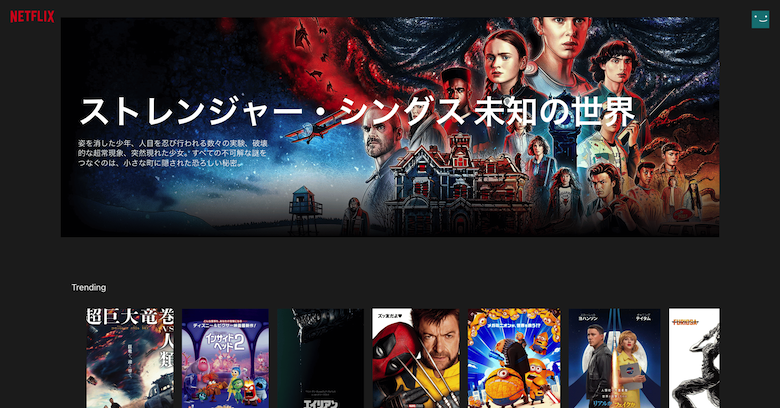
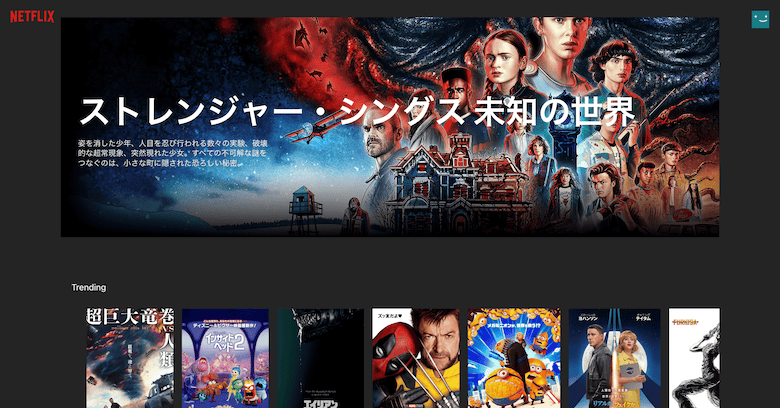
[update]cssインライン化

diff --git a/index.html b/index.html
@@ -29,6 +29,7 @@
 
   <link rel="stylesheet" href="https://cdnjs.cloudflare.com/ajax/libs/animate.css/3.5.2/animate.min.css">
   <link rel="stylesheet" href="https://cdn.jsdelivr.net/npm/swiper@11/swiper-bundle.min.css">
+  <style>@charset "UTF-8";html{-webkit-box-sizing:border-box;box-sizing:border-box;-webkit-text-size-adjust:100%;word-break:normal;-moz-tab-size:4;-o-tab-size:4;tab-size:4}*,::before,::after{background-repeat:no-repeat;-webkit-box-sizing:inherit;box-sizing:inherit}::before,::after{text-decoration:inherit;vertical-align:inherit}*{padding:0;margin:0}main{display:block}a{background-color:transparent}::-webkit-file-upload-button{-webkit-appearance:button;color:inherit;font:inherit}img{border-style:none}@font-face{font-display:swap;font-weight:400;font-style:normal;font-family:"Noto Sans JP";src:url("../fonts/NotoSansJP-Regular.woff") format("woff")}@font-face{font-display:swap;font-weight:700;font-style:normal;font-family:"Noto Sans JP";src:url("../fonts/NotoSansJP-Bold.woff") format("woff")}*,*::after,*::before{-webkit-box-sizing:border-box;box-sizing:border-box}html{font-size:62.5%;scroll-behavior:smooth;scroll-padding-top:80px;color:red}@media screen and (max-width:767px){html{scroll-padding-top:0px}}body{color:#333;font-size:1.6rem;width:100%;overflow-x:hidden;font-family:"Noto Sans JP",sans-serif;padding:0;background-color:#f3efe7;position:relative}img{max-width:100%;height:auto;border:none;display:block;width:100%}a{color:#333;text-decoration:none}li{list-style:none}.pc{display:block}@media screen and (max-width:767px){.pc{display:none}}.sp{display:none}@media screen and (max-width:767px){.sp{display:block}}p{line-height:1.8em;font-size:2rem}@media screen and (max-width:767px){p{font-size:1.6rem}}.l-header{width:100%;height:120px;position:fixed;z-index:1}@media screen and (max-width:767px){.l-header{height:50px}}.l-header__contents{display:-webkit-box;display:-ms-flexbox;display:flex;-webkit-box-pack:justify;-ms-flex-pack:justify;justify-content:space-between;-webkit-box-align:center;-ms-flex-align:center;align-items:center;height:100%}@media screen and (max-width:767px){.l-header__contents{display:none}}.l-header__logo{width:80px;height:80px}.l-header img{-webkit-filter:invert(100%);filter:invert(100%)}.l-header a{color:white}@media screen and (max-width:767px){.l-header__nav{display:none}}.l-nav__wrap{display:-webkit-box;display:-ms-flexbox;display:flex;-webkit-box-pack:justify;-ms-flex-pack:justify;justify-content:space-between}.l-nav__item{margin-right:25px}.l-nav__item a{font-size:2rem}.sp_header{display:none}.sp_back{display:none;width:100%;height:100%;background-color:rgb(87,87,87);z-index:100;position:absolute;opacity:0.4}.sp_btn{display:none;z-index:200}@media screen and (max-width:767px){.sp_header{display:block;position:fixed;right:-250px;z-index:100;width:250px;height:100vh;top:0;border-radius:0 0 0 100px}.sp_menu{height:100%}.sp_btn{display:block;position:fixed;top:15px;right:15px;width:30px;z-index:200}.nav_items{display:block;font-size:30px;width:100%;padding:0;position:absolute;top:15%}.nav_items a{color:white;width:100%;display:block;padding-left:30px}}@media screen and (max-width:767px) and (max-width:767px){.nav_items a{border-bottom:10px dotted rgba(255,255,255,0.2196078431);margin-left:40px;padding-bottom:5px;padding-left:0px}}@media screen and (max-width:767px){.nav_item{margin-bottom:15px;width:100%;padding:0}}.hide_btn{list-style:none;font-size:80px;color:white}.custom-cursor{position:fixed;top:0;left:0;width:30px;height:30px;border-radius:50%;background-color:#ff3b00;-webkit-transform:translate(-50%,-50%);transform:translate(-50%,-50%);z-index:9999}@media screen and (max-width:767px){.custom-cursor{display:none}}.c-inner{max-width:1080px;margin:0 auto;padding:0 150px}@media screen and (max-width:900px){.c-inner{padding:0 100px}}@media screen and (max-width:767px){.c-inner{padding:10px 20px 30px}}.c-inner.l-head-inner{height:100%}@media screen and (max-width:767px){.c-inner.l-head-inner{padding:0}}.c-inner.p-mv{position:absolute;top:50%;left:50%;-webkit-transform:translate(-50%,-50%);transform:translate(-50%,-50%);width:100%;max-width:1080px;padding:10px 30px 30px}.c-section{padding-top:100px;padding-bottom:50px;text-align:center;overflow:hidden}@media screen and (max-width:767px){.c-section{padding-top:70px;padding-bottom:0}}.c-section.p-mv{padding-top:0}.logo_fadein{background:#f3efe7;position:fixed;top:0;left:0;height:100%;width:100%;z-index:999}@media screen and (max-width:767px){.logo_fadein{height:100vh}}@media screen and (max-width:767px){.logo_fadein img{width:100px;height:100px;margin:0 auto;display:block}}.logo_fadein p{position:fixed;left:50%;top:50%;-webkit-transform:translate(-50%,-50%);transform:translate(-50%,-50%);display:none;z-index:9999;width:280px}@media screen and (max-width:767px){.logo_fadein p{margin:0 auto;text-align:center}}.p-mv{position:relative}.p-mv__img{height:100vh}.p-mv__img img{width:100%;height:100%;-o-object-fit:cover;object-fit:cover}.p-mv__contents{text-align:left;padding-left:100px;color:white}@media screen and (max-width:767px){.p-mv__contents{padding-left:0}}.p-mv__title{font-size:8rem;text-shadow:1px 3px 5px #000000}@media screen and (max-width:767px){.p-mv__title{font-size:5rem}}.p-mv__text-title{font-size:3rem;text-shadow:1px 3px 5px #000000}@media screen and (max-width:767px){.p-mv__text-title{font-size:2rem}}.p-mv__text-welcome{font-size:2rem;text-shadow:1px 3px 5px #000000}</style>
   <link href="css/reset.css" rel="stylesheet">
   <link href="css/swiper.css" rel="stylesheet">
   <link href="css/style.css" rel="stylesheet">
@@ -45,7 +46,7 @@
 
   <!-- ローディングアニメーション -->
   <div class="logo_fadein">
-    <p><img src="images/camel.png" alt="camelのロゴ" fetchpriority="high" loading="lazy"></p>
+    <p><img src="images/camel.png" alt="camelのロゴ" fetchpriority="high"></p>
   </div>
 
   <div class="sp_back"></div>
@@ -58,7 +59,7 @@
       <div class="l-header__contents pc">
         <div class="l-header__logo">
           <a href="#top">
-            <img src="./images/camel.png" alt="camelのロゴ" loading="lazy">
+            <img src="./images/camel.png" alt="camelのロゴ">
           </a>
         </div>
         <nav class="l-header__nav">
@@ -103,7 +104,7 @@
       <div class="p-mv__img pImage" data-y="-20vw">
         <picture>
           <source srcset="./images/header_img.jpg" media="(min-width: 481px)">
-          <img src="./images/header_img_sp.jpg" alt="トップの背景画像" fetchpriority="high" loading="lazy">
+          <img src="./images/header_img_sp.jpg" alt="トップの背景画像" loading="lazy">
         </picture>
       </div>
 
@@ -544,7 +545,7 @@
     new WOW().init();
   </script>
   <script src="https://kit.fontawesome.com/b2fc223adf.js" crossorigin="anonymous"></script>
-  <script src="https://cdn.jsdelivr.net/npm/confetti@latest/dist/confetti.min.js"></script>
+  <!-- <script src="https://cdn.jsdelivr.net/npm/confetti@latest/dist/confetti.min.js"></script> -->
   <!-- <script>
     window.addEventListener('scroll', function () {
       if (window.innerWidth > 768 && window.scrollY + window.innerHeight >= document.body.offsetHeight) {
